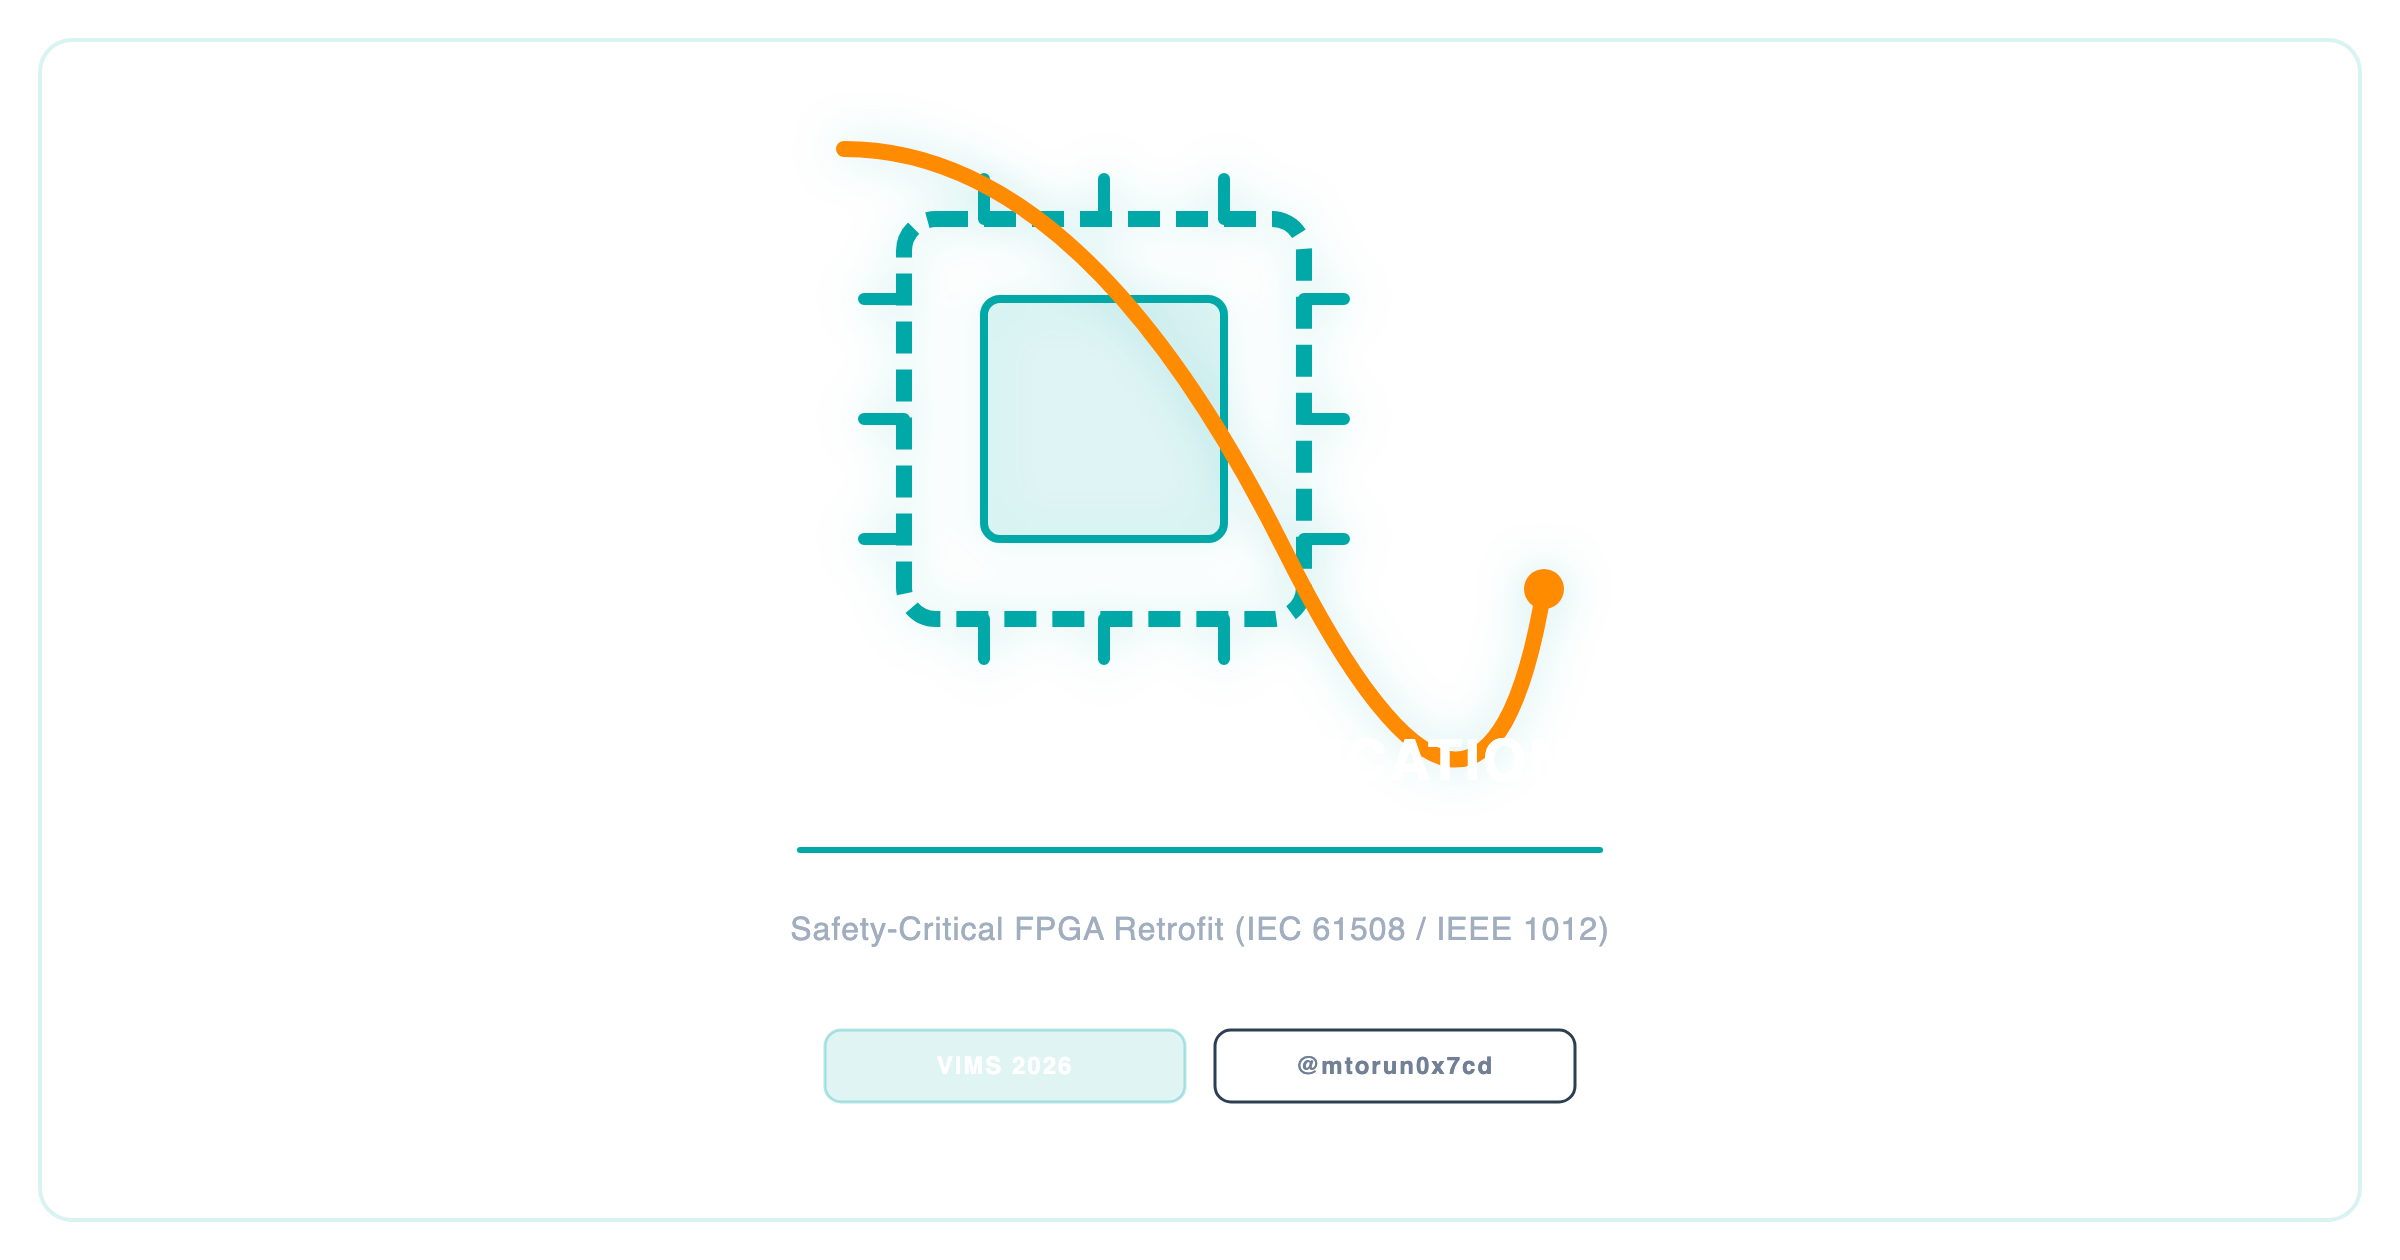
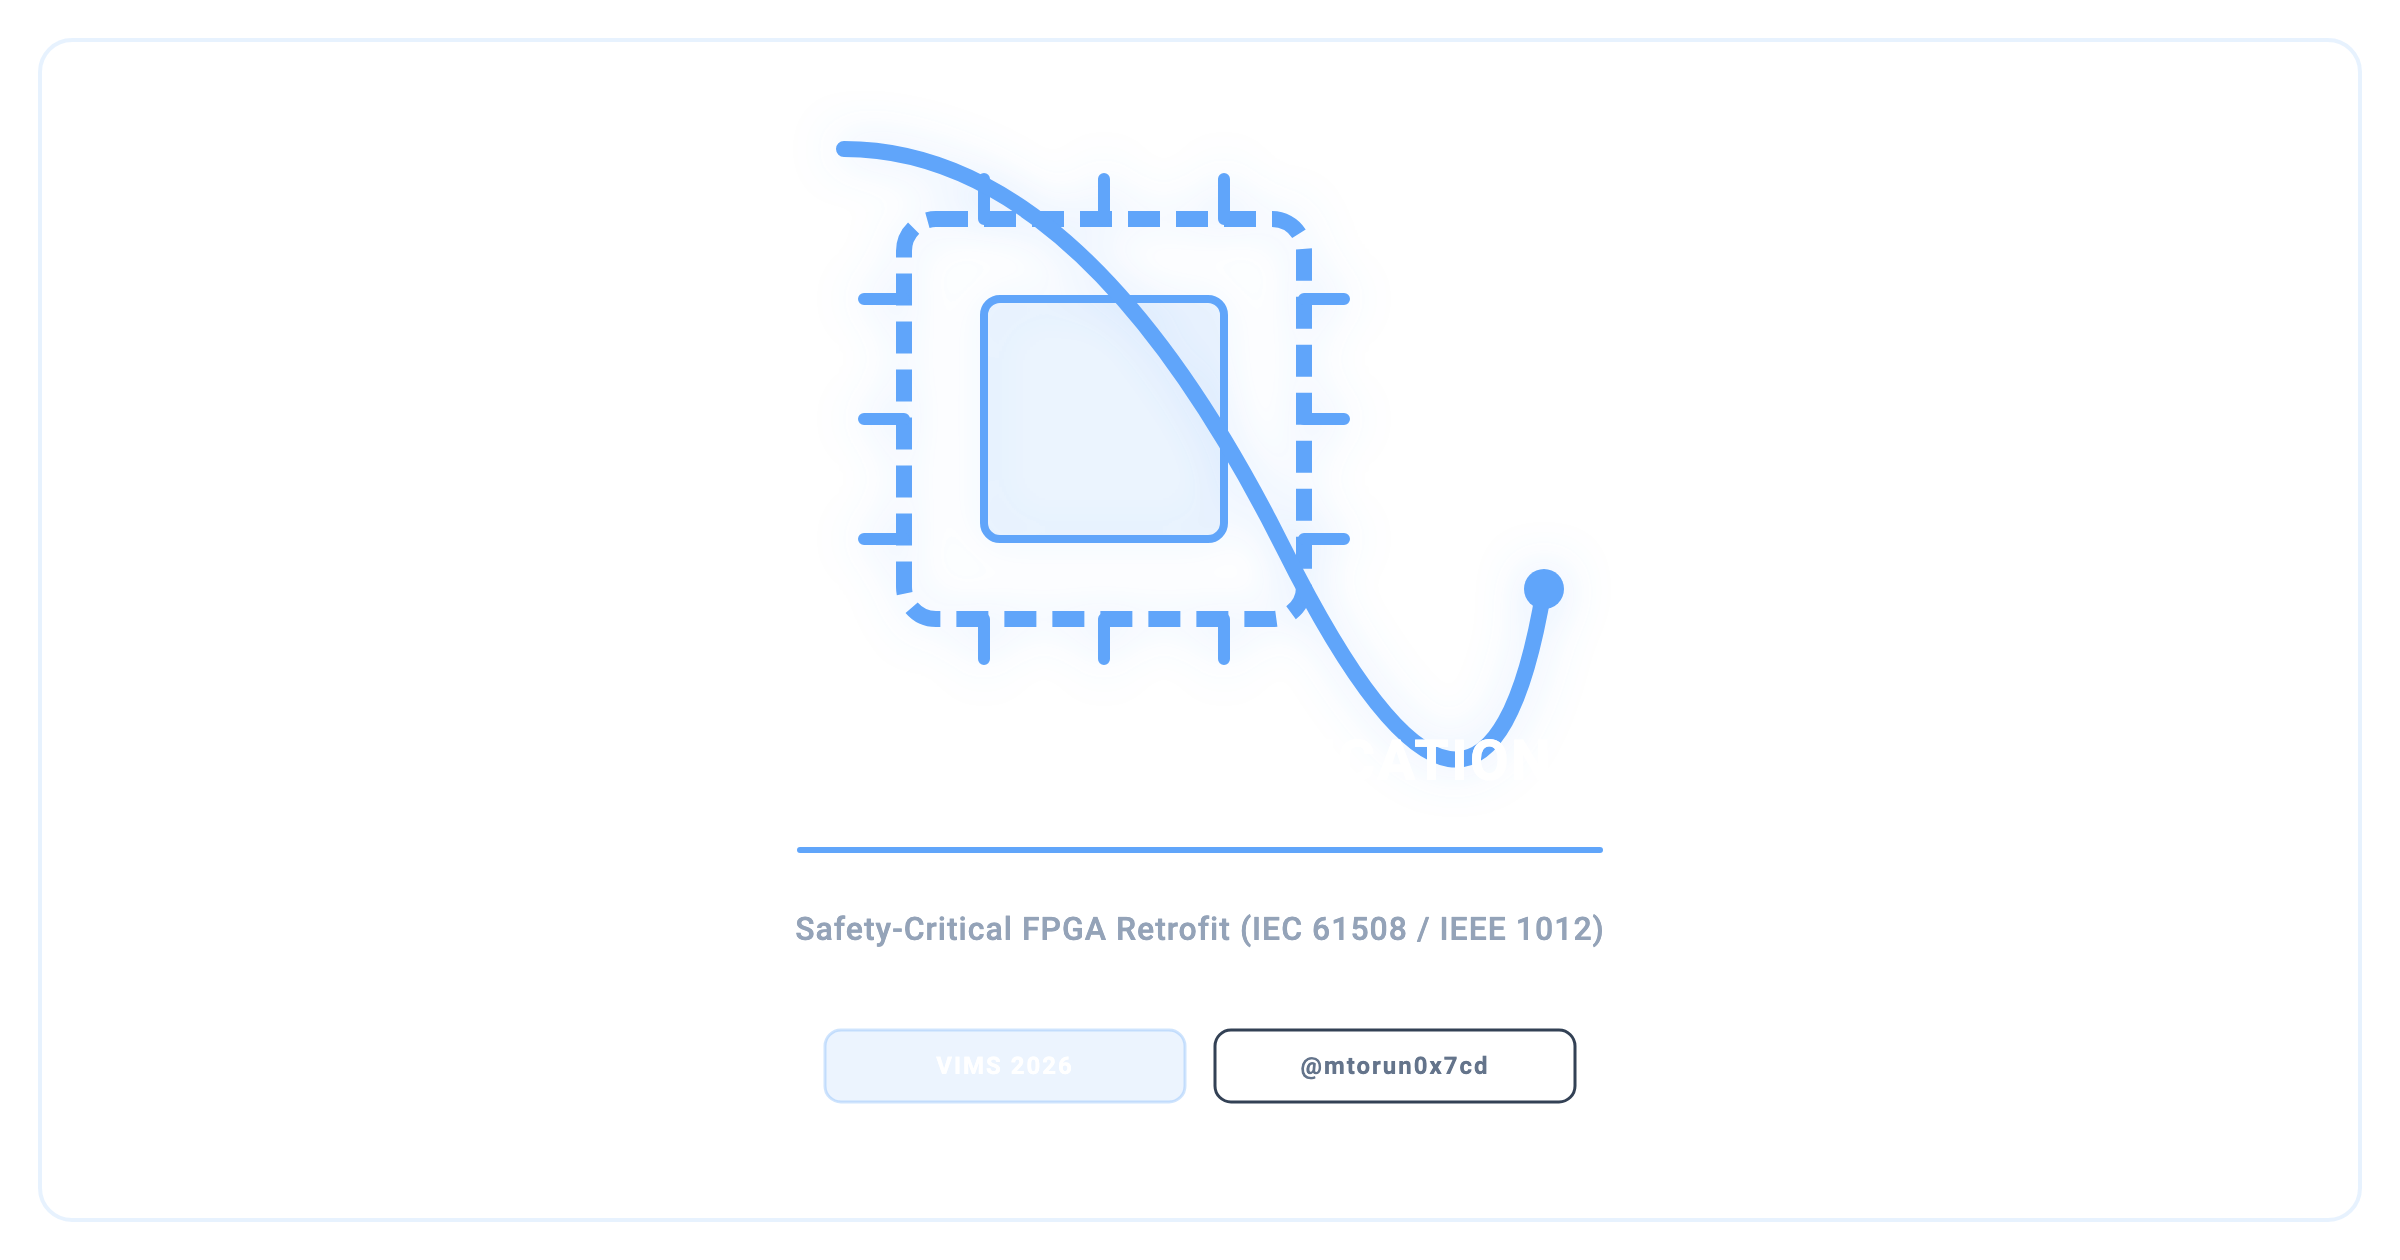
docs: recolour the diagram and social preview to the brand accent
Replace the IEEE-blue diagram theme and the teal/orange preview palette with the single brand accent (#2563EB light, #60A5FA dark) and Slate neutrals; regenerate the social-preview PNGs from the SVG.

diff --git a/README.md b/README.md
@@ -110,7 +110,7 @@ The methodology maps to the right side of the V-model through two complementary 
 **Layer 2 — Scenario-Based System-Level Testing** targets system and acceptance testing: black-box validation of the fully integrated system against original functional requirements using a dedicated hardware test fixture ("Testkartentester").
 
 ```mermaid
-%%{init: {'theme': 'base', 'themeVariables': { 'primaryColor': '#E1F0F7', 'edgeColor': '#00629B', 'primaryBorderColor': '#00629B', 'lineColor': '#00629B', 'textColor': '#083A5A' }}}%%
+%%{init: {'theme': 'base', 'themeVariables': { 'primaryColor': '#EFF6FF', 'edgeColor': '#2563EB', 'primaryBorderColor': '#2563EB', 'lineColor': '#2563EB', 'textColor': '#0F172A' }}}%%
 graph LR
     Host["Host PC<br/>Python / YAML"] <-->|USB / Serial| STM["STM32 Nucleo<br/>F401RE"]
     STM <-->|GPIO| Fix["Test Fixture<br/>Testkartentester"]
